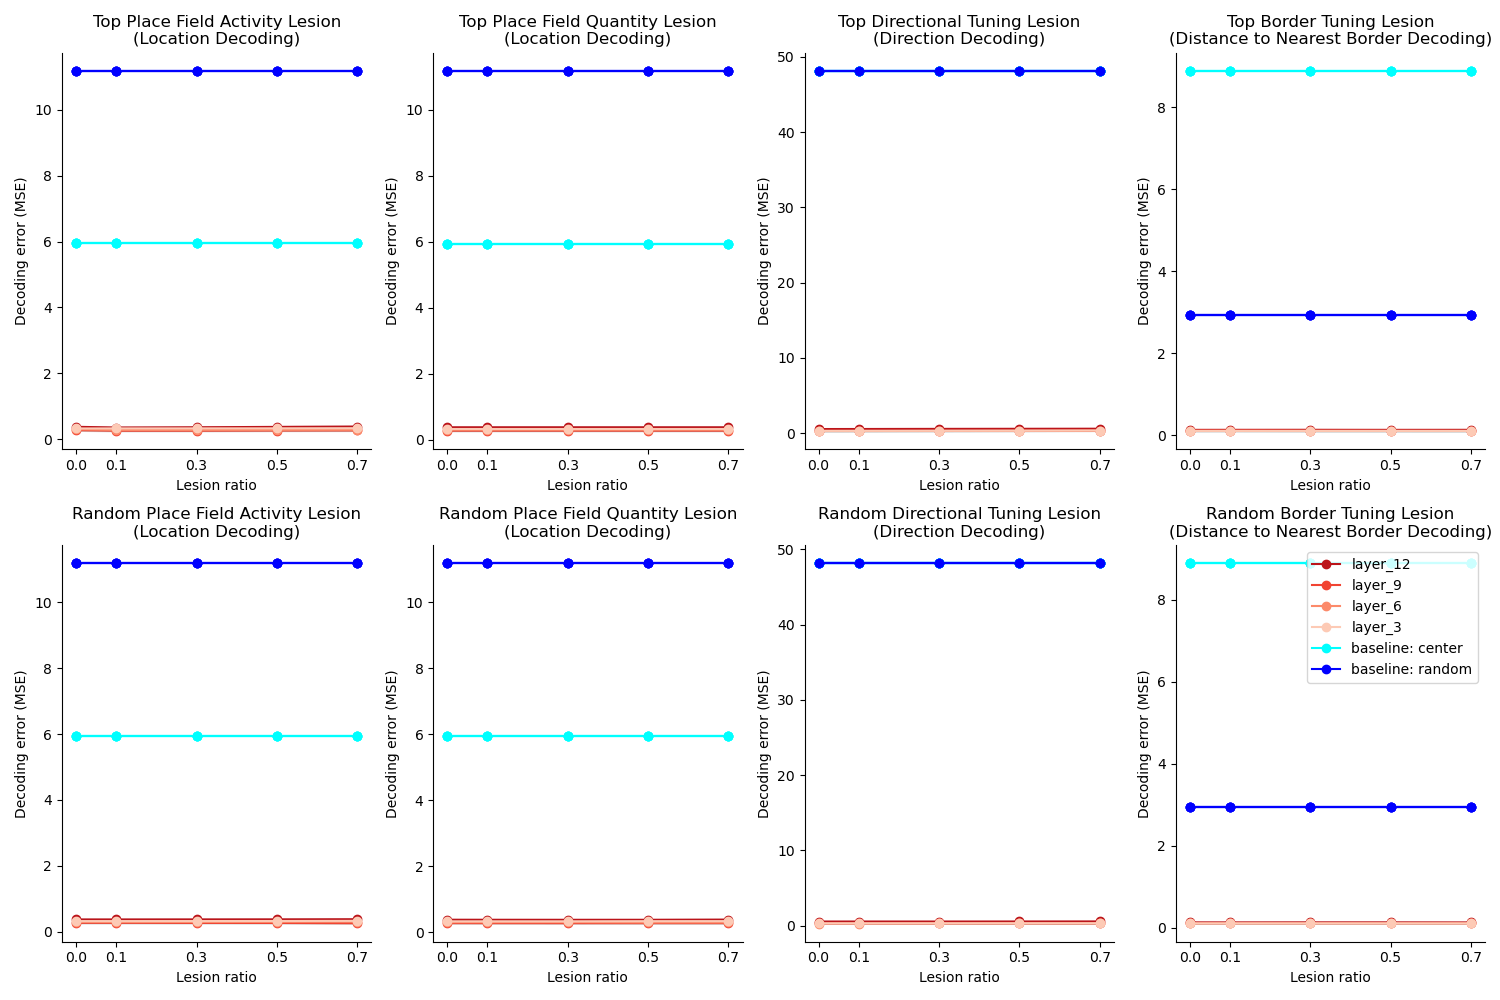
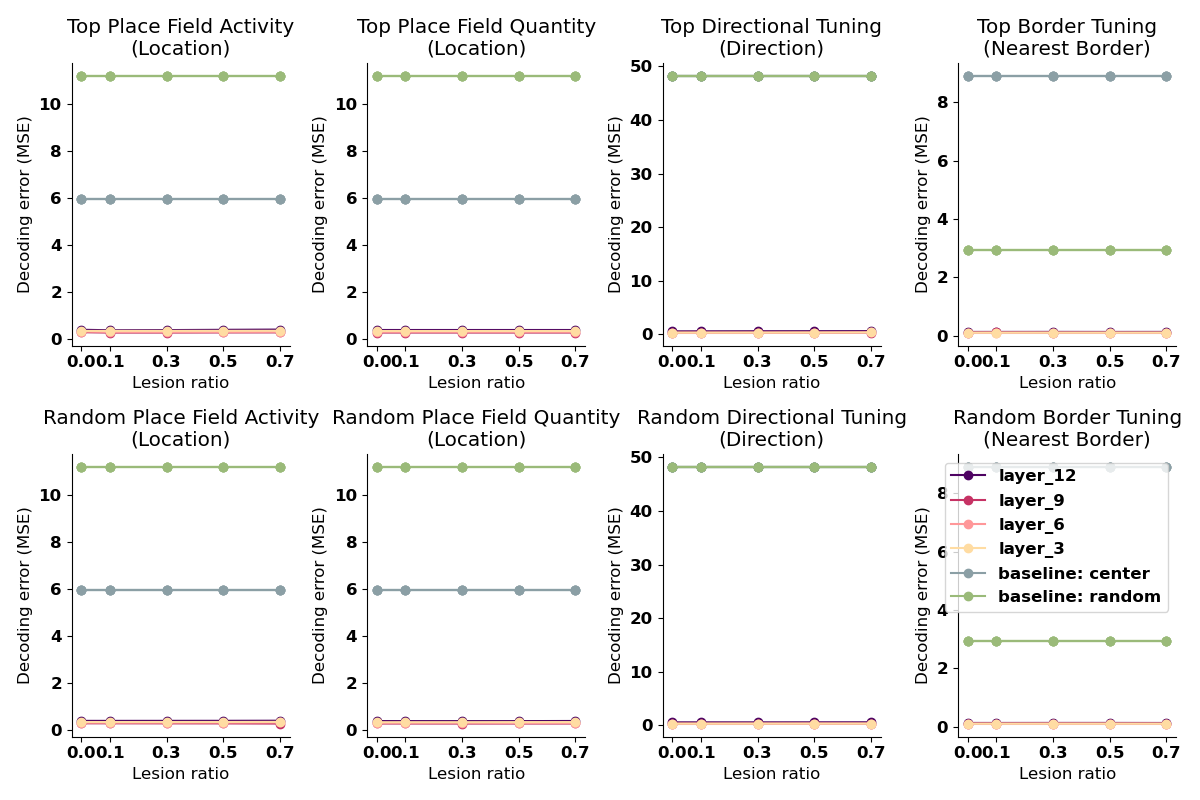
improved plotter

diff --git a/figures_paper.py b/figures_paper.py
@@ -975,13 +975,13 @@ def lesion_by_coef_each_model_across_layers_and_lr():
                 axes[rank_i, error_type_i].set_xticks(lesion_ratios)
                 axes[rank_i, error_type_i].set_xticklabels(lesion_ratios)
                 if rank == 'top':
-                    if error_type == 'loc':  title = 'Top Coef. Lesion\n(Location Decoding)'
-                    elif error_type == 'rot': title = 'Top Coef. Lesion\n(Direction Decoding)'
-                    elif error_type == 'dist': title = 'Top Coef.Lesion\n(Nearest Border Decoding)'
+                    if error_type == 'loc':  title = 'Top Coef. Lesion\n(Location)'
+                    elif error_type == 'rot': title = 'Top Coef. Lesion\n(Direction)'
+                    elif error_type == 'dist': title = 'Top Coef.Lesion\n(Nearest Border)'
                 elif rank == 'random':
-                    if error_type == 'loc':  title = 'Random Coef. Lesion\n(Location Decoding)'
-                    elif error_type == 'rot': title = 'Random Coef. Lesion\n(Direction Decoding)'
-                    elif error_type == 'dist': title = 'Random Coef. Lesion\n(Nearest Border Decoding)'
+                    if error_type == 'loc':  title = 'Random Coef. Lesion\n(Location)'
+                    elif error_type == 'rot': title = 'Random Coef. Lesion\n(Direction)'
+                    elif error_type == 'dist': title = 'Random Coef. Lesion\n(Nearest Border)'
                 axes[rank_i, error_type_i].set_title(title)
                 axes[rank_i, error_type_i].spines.right.set_visible(False)
                 axes[rank_i, error_type_i].spines.top.set_visible(False)
@@ -1269,7 +1269,7 @@ def lesion_by_unit_chart_each_model_across_layers_and_lr():
     for model_name in model_names:
         output_layers = data.load_model_layers(model_name)
         
-        fig, axes = plt.subplots(len(ranks), len(unit_chart_types), figsize=(15, 10))
+        fig, axes = plt.subplots(len(ranks), len(unit_chart_types), figsize=(12, 8))
         for rank_i, rank in enumerate(ranks):
             for unit_chart_type_i, unit_chart_type in enumerate(unit_chart_types):
                 for output_layer in output_layers:
@@ -1284,7 +1284,7 @@ def lesion_by_unit_chart_each_model_across_layers_and_lr():
                                 ci_low,
                                 ci_high,
                                 alpha=0.3,
-                                color='grey',
+                                color='#DADADA',
                             )
                         else:
                             if 'baseline' in metric:
@@ -1299,9 +1299,9 @@ def lesion_by_unit_chart_each_model_across_layers_and_lr():
                                 else:
                                     label = None  
                                 if 'mid' in metric: 
-                                    color = 'cyan'
+                                    color = '#8B9FA5'
                                 else: 
-                                    color = 'blue'
+                                    color = '#9ABA79'
                             else:
                                 # for non-baseline layer performance,
                                 # we label each layer and use layer-specific color.
@@ -1325,22 +1325,22 @@ def lesion_by_unit_chart_each_model_across_layers_and_lr():
                 axes[rank_i, unit_chart_type_i].set_xticklabels(lesion_ratios)
                 if rank == 'top':
                     if unit_chart_type == 'maxvalueinclusters':
-                        title = 'Top Place Field Activity Lesion\n(Location Decoding)'
+                        title = 'Top Place Field Activity\n(Location)'
                     elif unit_chart_type == 'numclusters':
-                        title = 'Top Place Field Quantity Lesion\n(Location Decoding)'
+                        title = 'Top Place Field Quantity\n(Location)'
                     elif unit_chart_type == 'directioness':
-                        title = 'Top Directional Tuning Lesion\n(Direction Decoding)'
+                        title = 'Top Directional Tuning\n(Direction)'
                     elif unit_chart_type == 'borderness':
-                        title = 'Top Border Tuning Lesion\n(Distance to Nearest Border Decoding)'
+                        title = 'Top Border Tuning\n(Nearest Border)'
                 elif rank == 'random':
                     if unit_chart_type == 'maxvalueinclusters':
-                        title = 'Random Place Field Activity Lesion\n(Location Decoding)'
+                        title = 'Random Place Field Activity\n(Location)'
                     elif unit_chart_type == 'numclusters':
-                        title = 'Random Place Field Quantity Lesion\n(Location Decoding)'
+                        title = 'Random Place Field Quantity\n(Location)'
                     elif unit_chart_type == 'directioness':
-                        title = 'Random Directional Tuning Lesion\n(Direction Decoding)'
+                        title = 'Random Directional Tuning\n(Direction)'
                     elif unit_chart_type == 'borderness':
-                        title = 'Random Border Tuning Lesion\n(Distance to Nearest Border Decoding)'
+                        title = 'Random Border Tuning\n(Nearest Border)'
                 
                 axes[rank_i, unit_chart_type_i].set_title(title)
                 axes[rank_i, unit_chart_type_i].spines.right.set_visible(False)
@@ -1680,7 +1680,7 @@ if __name__ == '__main__':
     # decoding_each_model_across_layers_and_sr()
     # decoding_all_models_one_layer_one_sr()
     lesion_by_coef_each_model_across_layers_and_lr()
-    # lesion_by_unit_chart_each_model_across_layers_and_lr()
+    lesion_by_unit_chart_each_model_across_layers_and_lr()
     # unit_chart_type_against_coef_each_model_across_layers()
     # unit_visualization_by_type()
     # unit_chart_visualization_piechart()
